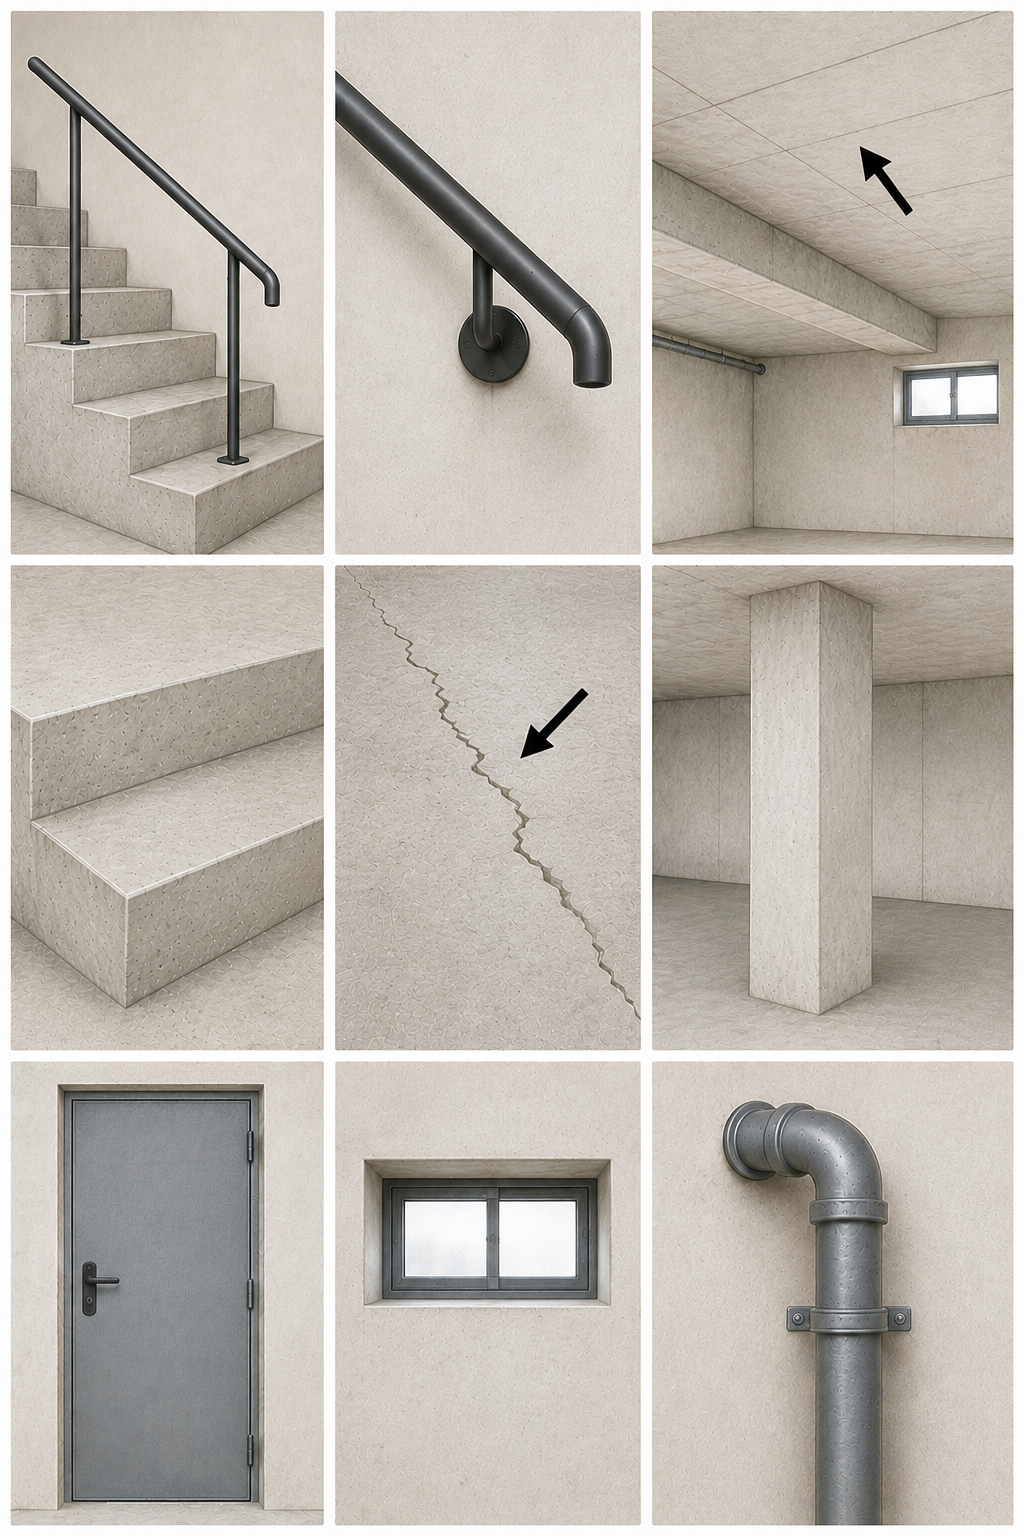
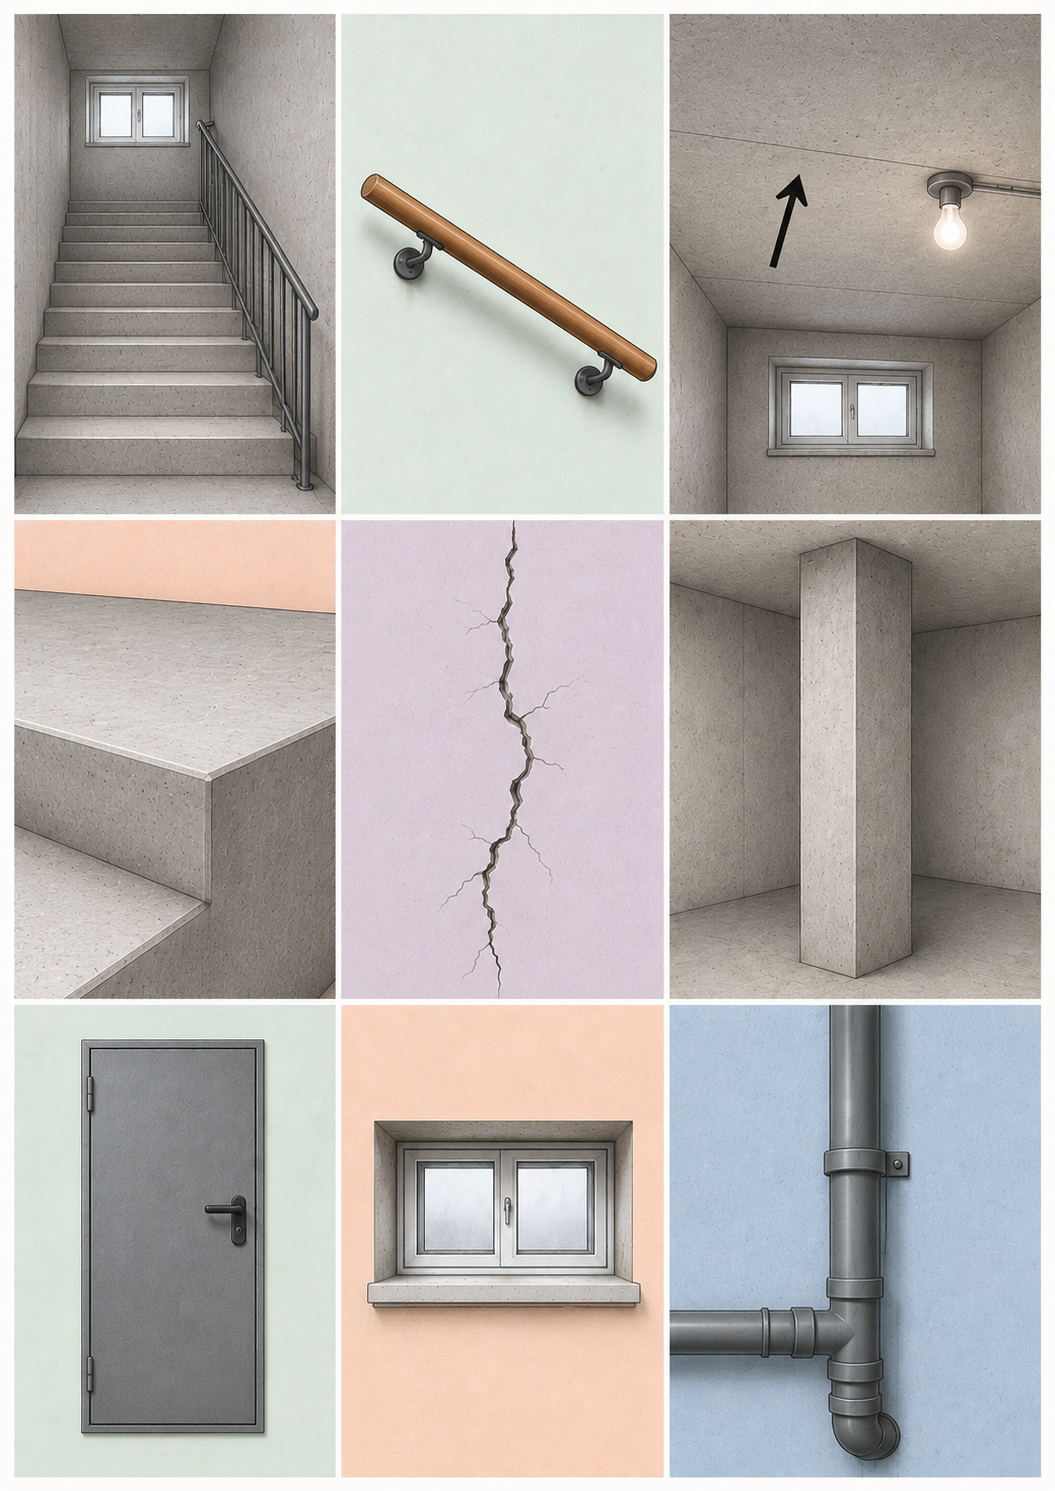
Aktualisiere Souterrain-Rasterbilder

diff --git a/bilder-daten.js b/bilder-daten.js
@@ -1259,45 +1259,45 @@ window.APP_FOLDERS = {
         title: "El sótano – Bild 2",
         file: "sotano3.png",
         hotspots: [
-          { wort: { es: "la escalera", de: "die Leiter", en: "the ladder", ru: "лестница" }, clickX: 16.8, clickY: 18.3, labelX: 16.8, labelY: 10.8, areaW: 30, areaH: 31 },
-          { wort: { es: "el pasamanos", de: "der Handlauf", en: "the banister", ru: "поручень" }, clickX: 50.0, clickY: 18.3, labelX: 50.0, labelY: 10.8, areaW: 30, areaH: 31 },
-          { wort: { es: "el techo bajo", de: "die niedrige Decke", en: "the low ceiling", ru: "низкий потолок" }, clickX: 83.2, clickY: 18.3, labelX: 83.2, labelY: 10.8, areaW: 30, areaH: 31 },
-          { wort: { es: "el escalón", de: "die Stufe", en: "the step", ru: "ступенька" }, clickX: 16.8, clickY: 50.0, labelX: 16.8, labelY: 42.5, areaW: 30, areaH: 31 },
-          { wort: { es: "la grieta", de: "der Riss", en: "the crack", ru: "трещина" }, clickX: 50.0, clickY: 50.0, labelX: 50.0, labelY: 42.5, areaW: 30, areaH: 31 },
-          { wort: { es: "la columna", de: "die Säule", en: "the pillar", ru: "колонна" }, clickX: 83.2, clickY: 50.0, labelX: 83.2, labelY: 42.5, areaW: 30, areaH: 31 },
-          { wort: { es: "la puerta metálica", de: "die Metalltür", en: "the metal door", ru: "металлическая дверь" }, clickX: 16.8, clickY: 81.7, labelX: 16.8, labelY: 74.2, areaW: 30, areaH: 31 },
-          { wort: { es: "la ventana pequeña", de: "das kleine Fenster", en: "the small window", ru: "маленькое окно" }, clickX: 50.0, clickY: 81.7, labelX: 50.0, labelY: 74.2, areaW: 30, areaH: 31 },
-          { wort: { es: "el tubo", de: "das Rohr", en: "the pipe", ru: "труба" }, clickX: 83.2, clickY: 81.7, labelX: 83.2, labelY: 74.2, areaW: 30, areaH: 31 }
+          { wort: { es: "la escalera", de: "die Leiter", en: "the ladder", ru: "лестница" }, clickX: 16.5, clickY: 17.7, labelX: 16.8, labelY: 10.8, areaW: 30.5, areaH: 33.7 },
+          { wort: { es: "el pasamanos", de: "der Handlauf", en: "the banister", ru: "поручень" }, clickX: 47.6, clickY: 17.7, labelX: 50.0, labelY: 10.8, areaW: 30.6, areaH: 33.7 },
+          { wort: { es: "el techo bajo", de: "die niedrige Decke", en: "the low ceiling", ru: "низкий потолок" }, clickX: 81.0, clickY: 17.7, labelX: 83.2, labelY: 10.8, areaW: 35.4, areaH: 33.7 },
+          { wort: { es: "el escalón", de: "die Stufe", en: "the step", ru: "ступенька" }, clickX: 16.5, clickY: 50.9, labelX: 16.8, labelY: 42.5, areaW: 30.5, areaH: 32.1 },
+          { wort: { es: "la grieta", de: "der Riss", en: "the crack", ru: "трещина" }, clickX: 47.6, clickY: 50.9, labelX: 50.0, labelY: 42.5, areaW: 30.6, areaH: 32.1 },
+          { wort: { es: "la columna", de: "die Säule", en: "the pillar", ru: "колонна" }, clickX: 81.0, clickY: 50.9, labelX: 83.2, labelY: 42.5, areaW: 35.4, areaH: 32.1 },
+          { wort: { es: "la puerta metálica", de: "die Metalltür", en: "the metal door", ru: "металлическая дверь" }, clickX: 16.5, clickY: 83.2, labelX: 16.8, labelY: 74.2, areaW: 30.5, areaH: 31.7 },
+          { wort: { es: "la ventana pequeña", de: "das kleine Fenster", en: "the small window", ru: "маленькое окно" }, clickX: 47.6, clickY: 83.2, labelX: 50.0, labelY: 74.2, areaW: 30.6, areaH: 31.7 },
+          { wort: { es: "el tubo", de: "das Rohr", en: "the pipe", ru: "труба" }, clickX: 81.0, clickY: 83.2, labelX: 83.2, labelY: 74.2, areaW: 35.4, areaH: 31.7 }
         ]
       },
       {
         title: "El sótano – Bild 3",
         file: "sotano2.png",
         hotspots: [
-          { wort: { es: "la tubería", de: "die Leitung", en: "the pipework", ru: "трубопровод" }, clickX: 16.8, clickY: 18.3, labelX: 16.8, labelY: 10.8, areaW: 30, areaH: 31 },
-          { wort: { es: "el cuadro eléctrico", de: "der Sicherungskasten", en: "the electrical panel", ru: "электрощиток" }, clickX: 50.0, clickY: 18.3, labelX: 50.0, labelY: 10.8, areaW: 30, areaH: 31 },
-          { wort: { es: "la caldera", de: "der Heizkessel", en: "the boiler", ru: "котёл" }, clickX: 83.2, clickY: 18.3, labelX: 83.2, labelY: 10.8, areaW: 30, areaH: 31 },
-          { wort: { es: "el calentador", de: "der Heizkörper", en: "the heater", ru: "нагреватель" }, clickX: 16.8, clickY: 50.0, labelX: 16.8, labelY: 42.5, areaW: 30, areaH: 31 },
-          { wort: { es: "la bombilla", de: "die Glühbirne", en: "the light bulb", ru: "лампочка" }, clickX: 50.0, clickY: 50.0, labelX: 50.0, labelY: 42.5, areaW: 30, areaH: 31 },
-          { wort: { es: "el interruptor", de: "der Lichtschalter", en: "the light switch", ru: "выключатель" }, clickX: 83.2, clickY: 50.0, labelX: 83.2, labelY: 42.5, areaW: 30, areaH: 31 },
-          { wort: { es: "el enchufe", de: "die Steckdose", en: "the socket", ru: "розетка" }, clickX: 16.8, clickY: 81.7, labelX: 16.8, labelY: 74.2, areaW: 30, areaH: 31 },
-          { wort: { es: "la rejilla de ventilación", de: "das Lüftungsgitter", en: "the air vent", ru: "вентиляционная решётка" }, clickX: 50.0, clickY: 81.7, labelX: 50.0, labelY: 74.2, areaW: 30, areaH: 31 },
-          { wort: { es: "el desagüe", de: "der Abfluss", en: "the drain", ru: "слив" }, clickX: 83.2, clickY: 81.7, labelX: 83.2, labelY: 74.2, areaW: 30, areaH: 31 }
+          { wort: { es: "la tubería", de: "die Leitung", en: "the pipework", ru: "трубопровод" }, clickX: 17.2, clickY: 18.6, labelX: 16.8, labelY: 10.8, areaW: 31.2, areaH: 35.0 },
+          { wort: { es: "el cuadro eléctrico", de: "der Sicherungskasten", en: "the electrical panel", ru: "электрощиток" }, clickX: 49.0, clickY: 18.6, labelX: 50.0, labelY: 10.8, areaW: 31.8, areaH: 35.0 },
+          { wort: { es: "la caldera", de: "der Heizkessel", en: "the boiler", ru: "котёл" }, clickX: 81.8, clickY: 18.6, labelX: 83.2, labelY: 10.8, areaW: 33.0, areaH: 35.0 },
+          { wort: { es: "el calentador", de: "der Heizkörper", en: "the heater", ru: "нагреватель" }, clickX: 17.2, clickY: 51.9, labelX: 16.8, labelY: 42.5, areaW: 31.2, areaH: 31.1 },
+          { wort: { es: "la bombilla", de: "die Glühbirne", en: "the light bulb", ru: "лампочка" }, clickX: 49.0, clickY: 51.9, labelX: 50.0, labelY: 42.5, areaW: 31.8, areaH: 31.1 },
+          { wort: { es: "el interruptor", de: "der Lichtschalter", en: "the light switch", ru: "выключатель" }, clickX: 81.8, clickY: 51.9, labelX: 83.2, labelY: 42.5, areaW: 33.0, areaH: 31.1 },
+          { wort: { es: "el enchufe", de: "die Steckdose", en: "the socket", ru: "розетка" }, clickX: 17.2, clickY: 83.3, labelX: 16.8, labelY: 74.2, areaW: 31.2, areaH: 31.1 },
+          { wort: { es: "la rejilla de ventilación", de: "das Lüftungsgitter", en: "the air vent", ru: "вентиляционная решётка" }, clickX: 49.0, clickY: 83.3, labelX: 50.0, labelY: 74.2, areaW: 31.8, areaH: 31.1 },
+          { wort: { es: "el desagüe", de: "der Abfluss", en: "the drain", ru: "слив" }, clickX: 81.8, clickY: 83.3, labelX: 83.2, labelY: 74.2, areaW: 33.0, areaH: 31.1 }
         ]
       },
       {
         title: "El sótano – Bild 4",
         file: "sotano4.png",
         hotspots: [
-          { wort: { es: "el cable", de: "das Kabel", en: "the cable", ru: "кабель" }, clickX: 16.8, clickY: 18.3, labelX: 16.8, labelY: 10.8, areaW: 30, areaH: 31 },
-          { wort: { es: "el fusible", de: "die Sicherung", en: "the fuse", ru: "предохранитель" }, clickX: 50.0, clickY: 18.3, labelX: 50.0, labelY: 10.8, areaW: 30, areaH: 31 },
-          { wort: { es: "la linterna", de: "die Taschenlampe", en: "the torch", ru: "фонарик" }, clickX: 83.2, clickY: 18.3, labelX: 83.2, labelY: 10.8, areaW: 30, areaH: 31 },
-          { wort: { es: "el manómetro", de: "das Manometer", en: "the pressure gauge", ru: "манометр" }, clickX: 16.8, clickY: 50.0, labelX: 16.8, labelY: 42.5, areaW: 30, areaH: 31 },
-          { wort: { es: "el radiador", de: "der Heizkörper", en: "the radiator", ru: "радиатор" }, clickX: 50.0, clickY: 50.0, labelX: 50.0, labelY: 42.5, areaW: 30, areaH: 31 },
-          { wort: { es: "la válvula", de: "das Ventil", en: "the valve", ru: "клапан" }, clickX: 83.2, clickY: 50.0, labelX: 83.2, labelY: 42.5, areaW: 30, areaH: 31 },
-          { wort: { es: "el grifo", de: "der Wasserhahn", en: "the tap", ru: "кран" }, clickX: 16.8, clickY: 81.7, labelX: 16.8, labelY: 74.2, areaW: 30, areaH: 31 },
-          { wort: { es: "el contador de agua", de: "der Wasserzähler", en: "the water meter", ru: "счётчик воды" }, clickX: 50.0, clickY: 81.7, labelX: 50.0, labelY: 74.2, areaW: 30, areaH: 31 },
-          { wort: { es: "la llave de paso", de: "der Absperrhahn", en: "the shut-off valve", ru: "запорный кран" }, clickX: 83.2, clickY: 81.7, labelX: 83.2, labelY: 74.2, areaW: 30, areaH: 31 }
+          { wort: { es: "el cable", de: "das Kabel", en: "the cable", ru: "кабель" }, clickX: 17.2, clickY: 17.0, labelX: 16.8, labelY: 10.8, areaW: 32.7, areaH: 32.6 },
+          { wort: { es: "el fusible", de: "die Sicherung", en: "the fuse", ru: "предохранитель" }, clickX: 50.0, clickY: 17.0, labelX: 50.0, labelY: 10.8, areaW: 32.6, areaH: 32.6 },
+          { wort: { es: "la linterna", de: "die Taschenlampe", en: "the torch", ru: "фонарик" }, clickX: 82.9, clickY: 17.0, labelX: 83.2, labelY: 10.8, areaW: 32.4, areaH: 32.6 },
+          { wort: { es: "el manómetro", de: "das Manometer", en: "the pressure gauge", ru: "манометр" }, clickX: 17.2, clickY: 50.0, labelX: 16.8, labelY: 42.5, areaW: 32.7, areaH: 32.8 },
+          { wort: { es: "el radiador", de: "der Heizkörper", en: "the radiator", ru: "радиатор" }, clickX: 50.0, clickY: 50.0, labelX: 50.0, labelY: 42.5, areaW: 32.6, areaH: 32.8 },
+          { wort: { es: "la válvula", de: "das Ventil", en: "the valve", ru: "клапан" }, clickX: 82.9, clickY: 50.0, labelX: 83.2, labelY: 42.5, areaW: 32.4, areaH: 32.8 },
+          { wort: { es: "el grifo", de: "der Wasserhahn", en: "the tap", ru: "кран" }, clickX: 17.2, clickY: 83.3, labelX: 16.8, labelY: 74.2, areaW: 32.7, areaH: 33.3 },
+          { wort: { es: "el contador de agua", de: "der Wasserzähler", en: "the water meter", ru: "счётчик воды" }, clickX: 50.0, clickY: 83.3, labelX: 50.0, labelY: 74.2, areaW: 32.6, areaH: 33.3 },
+          { wort: { es: "la llave de paso", de: "der Absperrhahn", en: "the shut-off valve", ru: "запорный кран" }, clickX: 82.9, clickY: 83.3, labelX: 83.2, labelY: 74.2, areaW: 32.4, areaH: 33.3 }
         ]
       }
     ]
